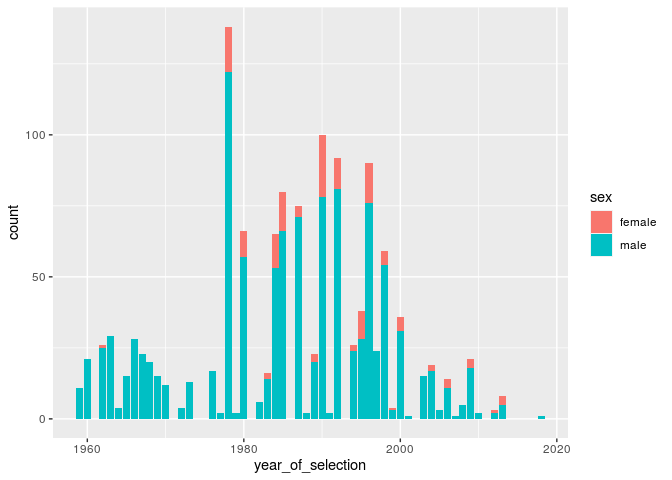
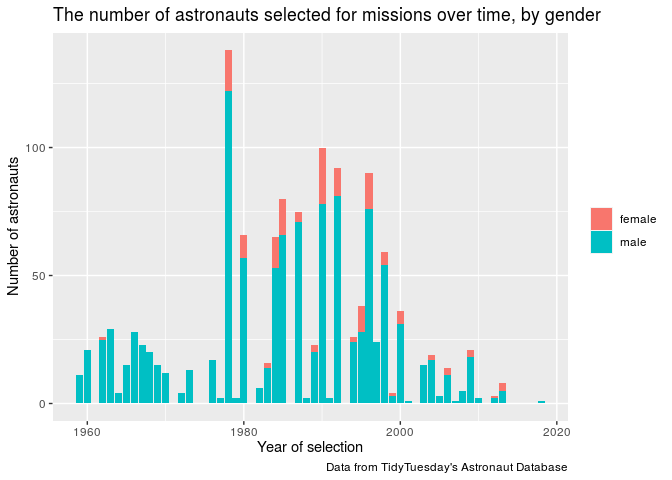
Edited text, added labels and titles to graphs.

diff --git a/proposal/proposal.md b/proposal/proposal.md
@@ -14,32 +14,26 @@ astronauts <- read_csv("/cloud/project/data/astronauts.csv")
 
 As a team, we have decided to use the dataset `astronauts` as we believe
 we can construct a meaningful analysis of this data and draw valuable
-conclusions. This dataframe contains information about the astronauts
-that have been on various space expeditions overtime. It contains data
-on their sex, what year they were selected, what year their mission
-launched, how long they spent in space, if they were in the military or
-a civilian, if they completed additional missions, and many other
-variables.
+conclusions. This dataframe contains information about astronauts that
+have been on various space expeditions over time, such as their sex,
+what year they were selected, what year their mission launched, how long
+they spent in space, if they were in the military or a civilian, if they
+completed additional missions, and many other variables.
 
-We are going to specifically analyse the gender equality of the
-astronaut profession; how has the ratio of male to female astronauts
-changed over time? We’ll be taking into account factors such as
-nationality, occupation, military status, time spent in space and mean
-total number of missions. The STEM industry is known for being heavily
-male dominated; although that is starting to change, to what extent? Are
-there certain factors or areas in which progress is being inhibited, and
-can these barriers be overcome? The characteristic we are going to focus
-our study around is the employment of women over time in the space
-industry.
+We are going to specifically analyse gender equality among astronauts;
+how has the ratio of male to female astronauts changed over time? We’ll
+be taking into account factors such as nationality, occupation, military
+status, time spent in space and mean total number of missions. The STEM
+industry is known for being heavily male dominated; although that is
+starting to change, to what extent? Are there certain factors or areas
+in which progress is being inhibited, and can these barriers be
+overcome? The characteristic we are going to focus our study around is
+the employment of women over time in the space industry.
 
-Our data is from TidyTuesday’s Astronaut Database with the data was
-collected from those who have traveled to space. There is a variety of
-data variables collected from occupation, number of hours in space,
-number of missions to year and sex. The main aspect we going to focus on
-is gender equality in the space industry and if this has changed over
-time. This industry is known for being male dominated and we are going
-to analyse if there have been more females employed in the industry
-overtime.
+Our data is from TidyTuesday’s Astronaut Database, with the data
+collected solely about those who have travelled to space. There exists a
+wide variety of data variables available for analysis; we will select
+the ones we used carefully, as not all may be relevant to our objective.
 
 ## 2\. Data
 
@@ -84,7 +78,12 @@ evaluate this over time.
 ``` r
 astronauts %>%
   ggplot(aes(x = year_of_selection, fill = sex)) + 
-  geom_bar()
+  geom_bar()+
+  labs(title = "The number of astronauts selected for missions over time, by gender",
+       x = "Year of selection",
+       y = "Number of astronauts",
+       caption = "Data from TidyTuesday's Astronaut Database")+
+  theme(legend.title = element_blank())
 ```
 
 ![](proposal_files/figure-gfm/year_and_sex-1.png)<!-- -->
@@ -92,7 +91,13 @@ astronauts %>%
 ``` r
 astronauts %>%
   ggplot(aes(x = year_of_selection, fill = sex)) + 
-  geom_bar(position = "fill")
+  geom_bar(position = "fill")+
+  labs(title = "The proportion of male/female astronauts selected for missions over time",
+       x = "Year of selection",
+       y = "Percentage of male/female astronauts",
+       caption = "Data from TidyTuesday's Astronaut Database")+
+  theme(legend.title = element_blank())+
+  scale_y_continuous(labels = scales::percent)
 ```
 
 ![](proposal_files/figure-gfm/year_and_sex-2.png)<!-- -->
